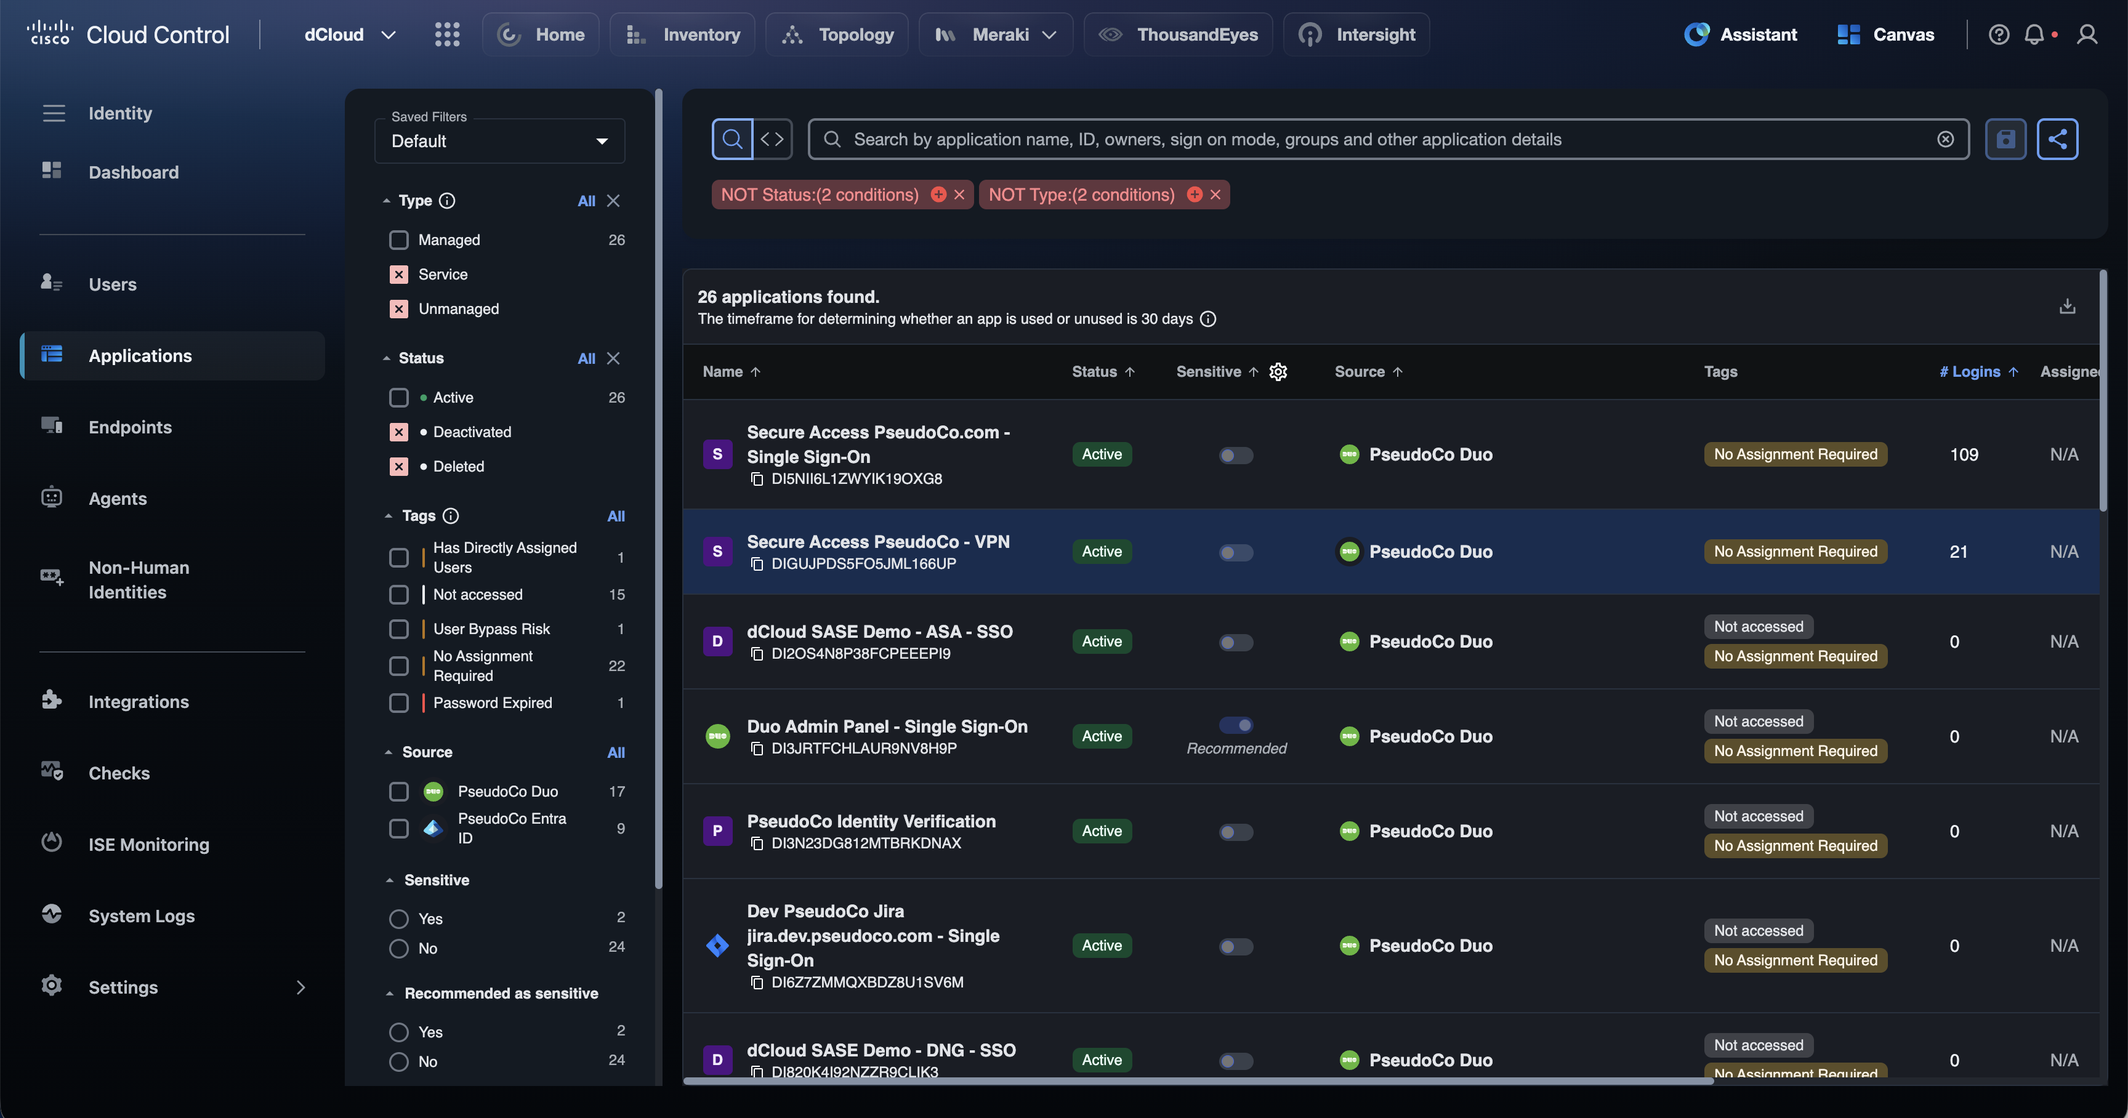
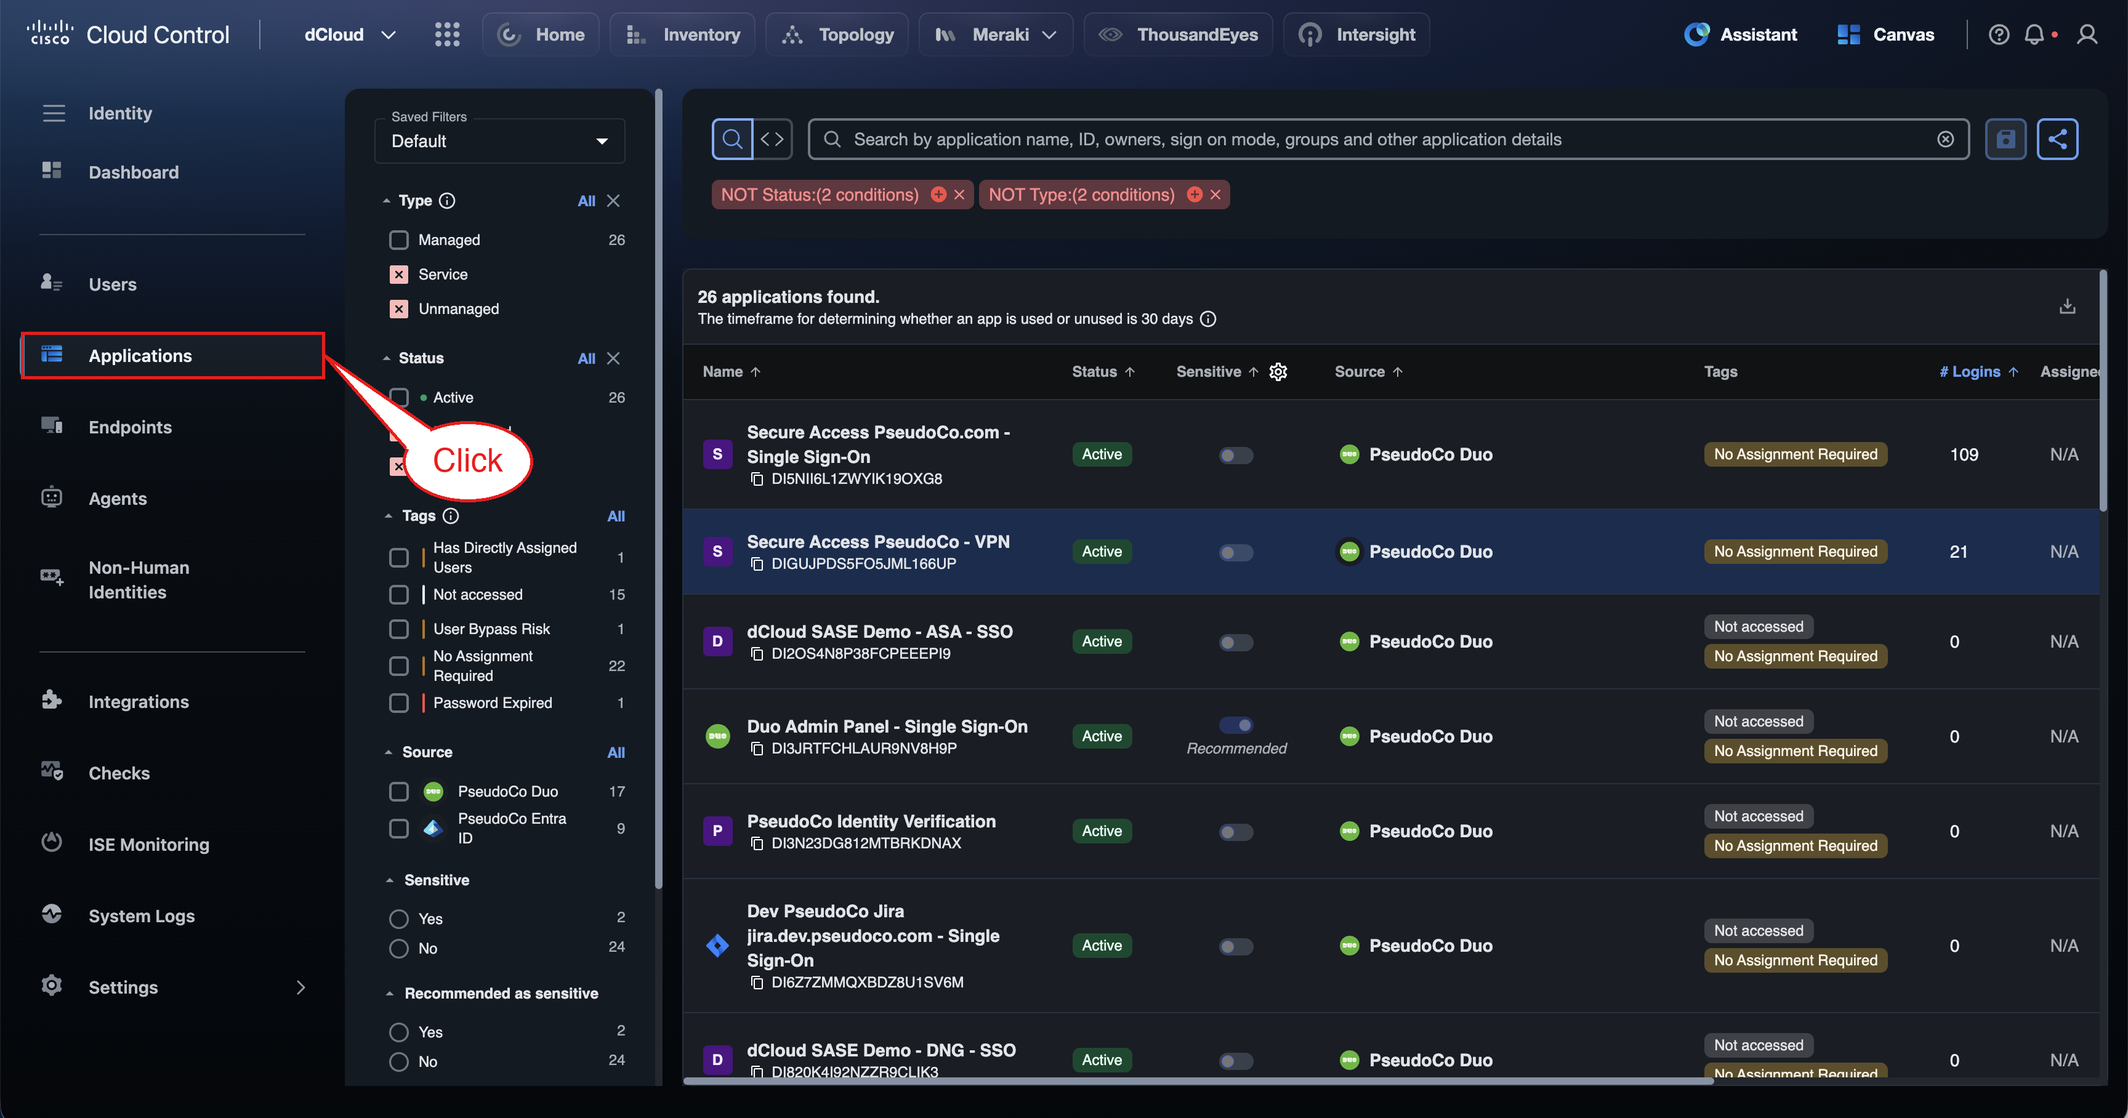
Update lab guide — 2026-10-26 07:13

Changed region(s): [[0.1562, 0.3392, 0.25, 0.4626], [0.125, 0.3084, 0.1562, 0.3392], [0.0, 0.3084, 0.0312, 0.3392]]

diff --git a/docs/stylesheets/extra.css b/docs/stylesheets/extra.css
@@ -120,3 +120,14 @@
         margin-right: 0 !important;
     }
 }
+
+/* Menu dividers */
+.md-nav--primary > .md-nav__list > .md-nav__item:nth-child(1),
+.md-nav--primary > .md-nav__list > .md-nav__item:nth-child(4),
+.md-nav--primary > .md-nav__list > .md-nav__item:nth-child(9),
+.md-nav--primary > .md-nav__list > .md-nav__item:nth-child(10),
+.md-nav--primary > .md-nav__list > .md-nav__item:nth-child(12) {
+  border-bottom: 3px solid var(--md-default-fg-color);
+  padding-bottom: .3rem;
+  margin-bottom: .3rem;
+}

diff --git a/docs/section-4-splunk-secure-networking-app/index.md b/docs/section-4-splunk-secure-networking-app/index.md
@@ -20,7 +20,7 @@ The Insights Workspace is the executive starting point for the whole app:
 
 - **Controls** — layout toggles, time range (default *Last 24 hours*), and refresh rate.
 
-The left navigation groups every dashboard by pillar. Hover a pillar to open its dashboards.
+The left navigation groups every dashboard by pillar. Click a pillar to open a menu of its dashboards.
 
 !!! tip "Tip"
     Click the **open** icon on any headline tile to jump straight to the dashboard behind that number.
@@ -29,9 +29,13 @@ The left navigation groups every dashboard by pillar. Hover a pillar to open its
 
 
 
-In the left navigation, hover **Zero Trust Access** and open each dashboard in turn. This pillar answers: *are the right users and devices getting access, and are policies being enforced?*
+In the left navigation, click **Zero Trust Access**. A menu slides out listing this pillar's dashboards; open each one in turn by clicking it in the menu. This pillar answers: *are the right users and devices getting access, and are policies being enforced?*
 
 ### Zero Trust Posture
+
+Click **Zero Trust Access** in the left navigation, then click **Zero Trust Posture** in the menu.
+
+![](../screenshots/ssne-menu-zero-trust-posture.png)
 
 ![](../screenshots/ssne-sn_zta_posture.png)
 
@@ -39,11 +43,19 @@ The pillar summary. It connects identity, posture, policy, and response signals 
 
 ### Authentication and Policy Enforcement
 
+Click **Zero Trust Access** again to reopen the menu, then click **Authentication and Policy Enforcement**.
+
+![](../screenshots/ssne-menu-authentication-and-policy-enforcement.png)
+
 ![](../screenshots/ssne-sn_zta_authentication_policy_enforcement.png)
 
 Validates that authentication works and policy is applied: ISE failure rate, RADIUS vs TACACS+ **Policy Family Activity**, **RADIUS Outcomes**, **RadSec Transport Activity**, **Duo Policy Outcomes** (denied, success, fraud), and the **ISE Enforcement Footprint** — how many network access devices are actively enforcing.
 
 ### Policy Management
+
+Click **Zero Trust Access** again to reopen the menu, then click **Policy Management**.
+
+![](../screenshots/ssne-menu-policy-management.png)
 
 ![](../screenshots/ssne-sn_zta_policy_management.png)
 
@@ -51,17 +63,29 @@ Monitors access-policy coverage, change, and exceptions that need review: RADIUS
 
 ### User Activity Monitoring
 
+Click **Zero Trust Access** again to reopen the menu, then click **User Activity Monitoring**.
+
+![](../screenshots/ssne-menu-user-activity-monitoring.png)
+
 ![](../screenshots/ssne-sn_zta_user_activity_monitoring.png)
 
 Reveals unusual access behavior and the identities, devices, and resources involved: private application access, access denial causes, MFA activity, and — from endpoint telemetry — **User** and **Process Egress Concentration**, which rank the users and processes sending the most data out.
 
 ### Detection & Response
 
+Click **Zero Trust Access** again to reopen the menu, then click **Detection & Response**.
+
+![](../screenshots/ssne-menu-detection-response.png)
+
 ![](../screenshots/ssne-sn_zta_detection_response.png)
 
 Surfaces access-related detections and the response actions that contain risk: Cisco XDR **Incident Severity** and **Incident Risk Pressure**, Attack Analyzer flows and forensic detections, **External Egress Activity** by destination, and **File Source Hotspots**.
 
 ### Remote Access VPN (RaVPN) Sessions and Posture
+
+Click **Zero Trust Access** again to reopen the menu, then click **Remote Access VPN (RaVPN) Sessions and Posture**.
+
+![](../screenshots/ssne-menu-remote-access-vpn-ravpn-sessions-and-posture.png)
 
 ![](../screenshots/ssne-sn_zta_ravpn_sessions_and_posture.png)
 
@@ -74,9 +98,13 @@ Connects remote-session health with endpoint posture and access risk: VPN client
 
 
 
-Hover **Secure Infrastructure**. This pillar answers: *is the network and data center healthy, and where is it exposed?*
+In the left navigation, click **Secure Infrastructure**. A menu slides out listing this pillar's dashboards; open each one in turn by clicking it in the menu. This pillar answers: *is the network and data center healthy, and where is it exposed?*
 
 ### Secure Infrastructure Status
+
+Click **Secure Infrastructure** in the left navigation, then click **Secure Infrastructure Status** in the menu.
+
+![](../screenshots/ssne-menu-secure-infrastructure-status.png)
 
 ![](../screenshots/ssne-sn_secure_infrastructure_status.png)
 
@@ -84,17 +112,29 @@ One cross-source health view of wireless, Catalyst Center, SD-WAN, data center, 
 
 ### Infrastructure Posture
 
+Click **Secure Infrastructure** again to reopen the menu, then click **Infrastructure Posture**.
+
+![](../screenshots/ssne-menu-infrastructure-posture.png)
+
 ![](../screenshots/ssne-sn_secure_infrastructure_posture.png)
 
 Unifies assurance, exposure, and operational control signals: data center anomalies, Nexus Dashboard **Critical Advisories**, Meraki **Wireless Containment** of rogue access points, **Wireless Clients Observed**, and SD-WAN site reporting.
 
 ### Secure Data Center Operations
 
+Click **Secure Infrastructure** again to reopen the menu, then click **Secure Data Center Operations**.
+
+![](../screenshots/ssne-menu-secure-data-center-operations.png)
+
 ![](../screenshots/ssne-sn_data_center_operations.png)
 
 Fabric health, capacity, policy enforcement, runtime security, and change intelligence for ACI, APIC, Nexus Dashboard, Secure Firewall, and Cisco Isovalent. Tabs across the top switch between **Fabric Operations**, **Data Center Security**, **Runtime Security**, and **Runtime Investigation**. Fabric Operations shows the **ACI Fabric Health Score**, critical and major ACI faults, security advisories, interface anomalies, peak port utilization, and ACI configuration changes.
 
 ### SD-WAN and Network Health Monitoring
+
+Click **Secure Infrastructure** again to reopen the menu, then click **SD-WAN and Network Health Monitoring**.
+
+![](../screenshots/ssne-menu-sd-wan-and-network-health-monitoring.png)
 
 ![](../screenshots/ssne-sn_hmf_sdwan_network_health.png)
 
@@ -107,15 +147,23 @@ Correlates WAN health, reachability, and service impact: SD-WAN **Site Health**,
 
 
 
-Hover **Scalable Network Segmentation**. This pillar answers: *how far has TrustSec/SGT segmentation been adopted, and is it being enforced?*
+In the left navigation, click **Scalable Network Segmentation**. A menu slides out listing this pillar's dashboards; open each one in turn by clicking it in the menu. This pillar answers: *how far has TrustSec/SGT segmentation been adopted, and is it being enforced?*
 
 ### Segmentation Readiness
+
+Click **Scalable Network Segmentation** in the left navigation, then click **Segmentation Readiness** in the menu.
+
+![](../screenshots/ssne-menu-segmentation-readiness.png)
 
 ![](../screenshots/ssne-sn_segmentation_readiness.png)
 
 Connects segmentation posture, trust boundaries, and enforcement coverage: the TrustSec-capable **Hardware Inventory**, endpoint-to-SGT assignments, which **Security Groups** are in use, the **Segmentation Adoption Rate**, **Sites With No Observed SGT Coverage**, and tagged authentication events by location.
 
 ### Segmentation Operations
+
+Click **Scalable Network Segmentation** again to reopen the menu, then click **Segmentation Operations**.
+
+![](../screenshots/ssne-menu-segmentation-operations.png)
 
 ![](../screenshots/ssne-sn_segmentation_operations.png)
 
@@ -128,9 +176,13 @@ Summarizes segment health, policy alignment, and areas needing investigation: ta
 
 
 
-Hover **Hybrid Mesh Firewalling**. This pillar answers: *is policy enforced consistently across every firewall — on-prem, branch, cloud, and workload?*
+In the left navigation, click **Hybrid Mesh Firewalling**. A menu slides out listing this pillar's dashboards; open each one in turn by clicking it in the menu. This pillar answers: *is policy enforced consistently across every firewall — on-prem, branch, cloud, and workload?*
 
 ### Hybrid Mesh Enforcement
+
+Click **Hybrid Mesh Firewalling** in the left navigation, then click **Hybrid Mesh Enforcement** in the menu.
+
+![](../screenshots/ssne-menu-hybrid-mesh-enforcement.png)
 
 ![](../screenshots/ssne-sn_hmf_enforcement.png)
 
@@ -138,11 +190,19 @@ Unifies firewall posture, enforcement, and workload protection: **Reporting Fire
 
 ### Threat Detection and Enforcement
 
+Click **Hybrid Mesh Firewalling** again to reopen the menu, then click **Threat Detection and Enforcement**.
+
+![](../screenshots/ssne-menu-threat-detection-and-enforcement.png)
+
 ![](../screenshots/ssne-sn_hmf_threat_detection_enforcement.png)
 
 Tracks high-confidence detections and the controls enforcing policy: allowed vs blocked **Firewall Decisions**, **Cloud Firewall Blocks**, the Multicloud Defense **Deny Rate**, Isovalent **Runtime Alerts**, **Branch IPS Pressure** from SD-WAN UTD, and a unified enforcement trend.
 
 ### DLP and Cloud Native Security
+
+Click **Hybrid Mesh Firewalling** again to reopen the menu, then click **DLP and Cloud Native Security**.
+
+![](../screenshots/ssne-menu-dlp-and-cloud-native-security.png)
 
 ![](../screenshots/ssne-sn_hmf_dlp_cloud_native_security.png)
 
@@ -152,9 +212,13 @@ Exposes data-loss risk and cloud-native workload controls: **Data Loss Findings*
 
 
 
-Hover **Agentic Ops**. This pillar answers: *are users getting a good digital experience, and what should operators and executives act on first?*
+In the left navigation, click **Agentic Ops**. A menu slides out listing this pillar's dashboards; open each one in turn by clicking it in the menu. This pillar answers: *are users getting a good digital experience, and what should operators and executives act on first?*
 
 ### Operational Intelligence
+
+Click **Agentic Ops** in the left navigation, then click **Operational Intelligence** in the menu.
+
+![](../screenshots/ssne-menu-operational-intelligence.png)
 
 ![](../screenshots/ssne-sn_agentic_ops_operational_intelligence.png)
 
@@ -162,11 +226,19 @@ Coordinates test health, path quality, routing instability, and AI Defense signa
 
 ### Secure Networking Assurance
 
+Click **Agentic Ops** again to reopen the menu, then click **Secure Networking Assurance**.
+
+![](../screenshots/ssne-menu-secure-networking-assurance.png)
+
 ![](../screenshots/ssne-sn_agentic_ops_secure_networking_assurance.png)
 
 Rolls protected-application access into one decision-ready **Secure Networking Assurance Score** built from **A**ttainability (ThousandEyes HTTP availability), **R**etainability (ISE and ZTNA success), and **Q**uality (latency and packet loss), adjusted by a **Contextual risk multiplier** from active XDR incidents.
 
 ### Executive Assurance
+
+Click **Agentic Ops** again to reopen the menu, then click **Executive Assurance**.
+
+![](../screenshots/ssne-menu-executive-assurance.png)
 
 ![](../screenshots/ssne-sn_agentic_ops_executive_assurance.png)
 

diff --git a/docs/conclusion/index.md b/docs/conclusion/index.md
@@ -1,5 +1,14 @@
 # Conclusion
 
-In this lab, you explored Cisco's Agentic Ops through hands-on experience with Cloud Control. You navigated the platform's core capabilities, including the Home Screen, the 9-Dot Menu, and Inventory management, gaining familiarity with how the environment is organized and accessed. You also experimented with AI Assistant sample prompts and the Agentic Canvas, discovering how natural language interactions can simplify complex operational tasks. Finally, you worked with Agent Builder instruction prompts to understand how agents can be configured and tailored to specific use cases.
+In this lab, you experienced Cisco Cloud Control end-to-end — from exploring the platform to building on it. You navigated the unified operational environment, the 9-Dot Menu, and the inventory that ties every Cisco platform together, then worked alongside AI agents in AI Canvas to investigate cross-domain issues and reach a root cause.
 
-As a next step, consider building and deploying your own custom agent using the Agent Builder, leveraging the prompt techniques practiced in this lab. Explore integrating additional tools and vendor-specific connections to expand your agent's capabilities across your environment. Use the Observability tab and Notifications pane to monitor agent runs and refine agent behavior based on real-world results. The more you experiment with different prompts and workflows, the better positioned you will be to unlock the full potential of Cisco's Agentic Ops Framework in your organization.
+From there, you explored how Cloud Control delivers value across the estate:
+
+- **Identity** — you reviewed identity posture in Identity Intelligence and saw human identities, non-human identities, applications, and endpoints come together in one view.
+- **Splunk Secure Networking App** — you navigated the five secure-networking pillars and saw how correlated telemetry shows where the network is healthy and where it is exposed.
+- **Studio** — you built and tested an AI agent with Agent Builder and generated a working application with App Builder, all governed by AI Defense guardrails.
+- **Cloud Control and Cisco IQ** — you followed a device from an inventory insight into Cisco IQ, planned for quantum readiness, and used AI Canvas to turn a hardening finding into remediation guidance and a Cisco Workflows action.
+
+**Value realization:** together, these capabilities turn the Cisco investments customers already own into measurable outcomes — risks found sooner, issues resolved faster with shared context, and new agents and apps built on the same trusted platform.
+
+As a next step, keep practicing. Use the **AI Canvas Prompt Library** to find, rate, and share prompts that work well, try the optional practice scenarios in **Appendices B and C**, and think about the value story you would tell a customer for each section of this lab. The more you work with AI Canvas, Studio, and Cisco IQ, the more confidently you will be able to show customers what Cisco Cloud Control can do for them.

diff --git a/docs/section-1-explore-the-lab-and-cloud-control-capabilities/index.md b/docs/section-1-explore-the-lab-and-cloud-control-capabilities/index.md
@@ -60,7 +60,7 @@ After logging in, explore the three sections on the home screen.
 
 ---
 
-Next, navigate to [**Appendix A: AI Canvas Prompt Library**](../appendix-a-ai-canvas-prompt-library/) (***opens in new Tab for easy navigation***) and spend time running the validated prompts for this environment. Use the **copy button** on each prompt block to paste directly into the AI Assistant or Agentic Canvas — this ensures accuracy and eliminates the risk of transcription errors. As you work through each prompt, observe how the system interprets the input, what format the response takes, and how quickly results are returned.
+Next, navigate to [**AI Canvas Prompt Library**](../ai-canvas-prompt-library/) (***opens in new Tab for easy navigation***) and spend time running the validated prompts for this environment. Use the **copy button** on each prompt block to paste directly into the AI Assistant or Agentic Canvas — this ensures accuracy and eliminates the risk of transcription errors. As you work through each prompt, observe how the system interprets the input, what format the response takes, and how quickly results are returned.
 
 The goal of this exercise is to thoroughly prepare yourself for live customer demonstrations by building familiarity and confidence with a core set of prompts that consistently produce clear, accurate, and compelling results. Consider the following as you explore:
 
@@ -79,7 +79,7 @@ Take as much time as needed during this section to become comfortable with the m
 ---
 
 !!! tip "Tip"
-    You can access [**Appendix A: AI Canvas Prompt Library**](../appendix-a-ai-canvas-prompt-library/) (***opens in new Tab for easy navigation***) at any time from the navigation menu on the left. Each prompt has a copy button — click it to copy the prompt instantly to your clipboard, then paste it directly into the AI Assistant or Agentic Canvas.
+    You can access [**AI Canvas Prompt Library**](../ai-canvas-prompt-library/) (***opens in new Tab for easy navigation***) at any time from the navigation menu on the left. Each prompt has a copy button — click it to copy the prompt instantly to your clipboard, then paste it directly into the AI Assistant or Agentic Canvas.
 
 ---
 

diff --git a/docs/value-realization/index.md b/docs/value-realization/index.md
@@ -1,0 +1,17 @@
+# Value Realization
+
+## Turning Capability into Outcomes
+
+Sections 1 and 2 showed you what Cisco Cloud Control is and how AI Canvas works. The next four sections focus on **value realization**: seeing how the platform turns what you already own into measurable results.
+
+Cisco customers have invested in identity, security, networking, and observability tools, but much of that value stays locked inside separate consoles. Cloud Control brings those signals together, so teams find risk sooner, resolve issues faster, and act on the same context instead of switching between products. It also lets organizations extend the platform with their own agents and apps, so each new use case builds on the investment they have already made.
+
+As you work through the next sections, look for the value story in each one:
+
+- **Identity** — one view of human and non-human identities and their posture, so risky accounts surface before they become incidents.
+- **Splunk Secure Networking App** — security and network telemetry correlated into dashboards that show where the network is healthy and where it is exposed.
+- **Studio** — agents and apps built in natural language, extending Cloud Control to fit how each team works, with AI Defense guardrails built in.
+- **Cloud Control and Cisco IQ** — lifecycle, compliance, and security intelligence that turns findings into a prioritized, actionable fix.
+
+Each of these is a conversation you can have with a customer about the return they get from Cisco Cloud Control.
+

diff --git a/docs/introduction/index.md b/docs/introduction/index.md
@@ -34,7 +34,7 @@ In this hands-on lab you will experience Cisco Cloud Control end-to-end, moving 
 
 6. **Cloud Control and Cisco IQ** — Follow a device from an inventory insight into Cisco IQ, plan for quantum readiness, and use AI Canvas to explain and remediate a hardening risk.
 
-When you finish, keep going with the appendices: **Appendix A** is an interactive library of tested AI Canvas prompts you can search, rate, and copy, and **Appendices B and C** offer optional practice scenarios for anyone who wants more hands-on time solving real problems with AI Canvas.
+When you finish, keep going: the **AI Canvas Prompt Library** is an interactive library of tested AI Canvas prompts you can search, rate, and copy, and **Appendices B and C** offer optional practice scenarios for anyone who wants more hands-on time solving real problems with AI Canvas.
 
 
 ## Learning Objectives

diff --git a/docs/ai-canvas-prompt-library/index.md b/docs/ai-canvas-prompt-library/index.md
@@ -1,8 +1,4 @@
-# Appendix A: AI Canvas Prompt Library
-
-## Find, Rate, and Share Prompts
-
-
+# AI Canvas Prompt Library
 
 !!! warning "Caution"
     Due to the scale constraints of this lab, Intersight and Nexus Dashboard products are not available for testing prompts. Please consider them references for the normal dCloud demo environment.
